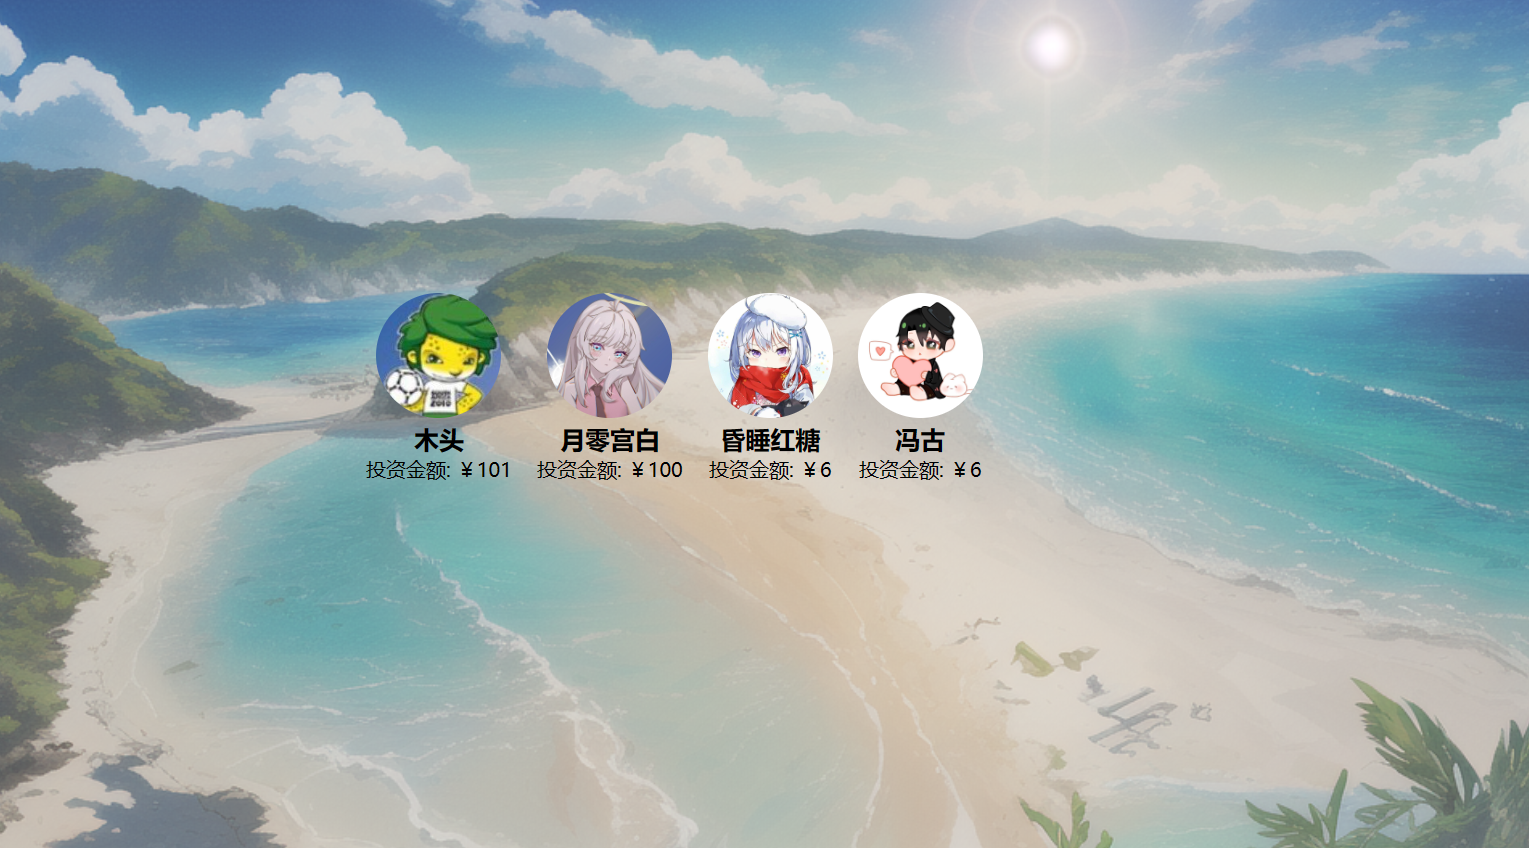
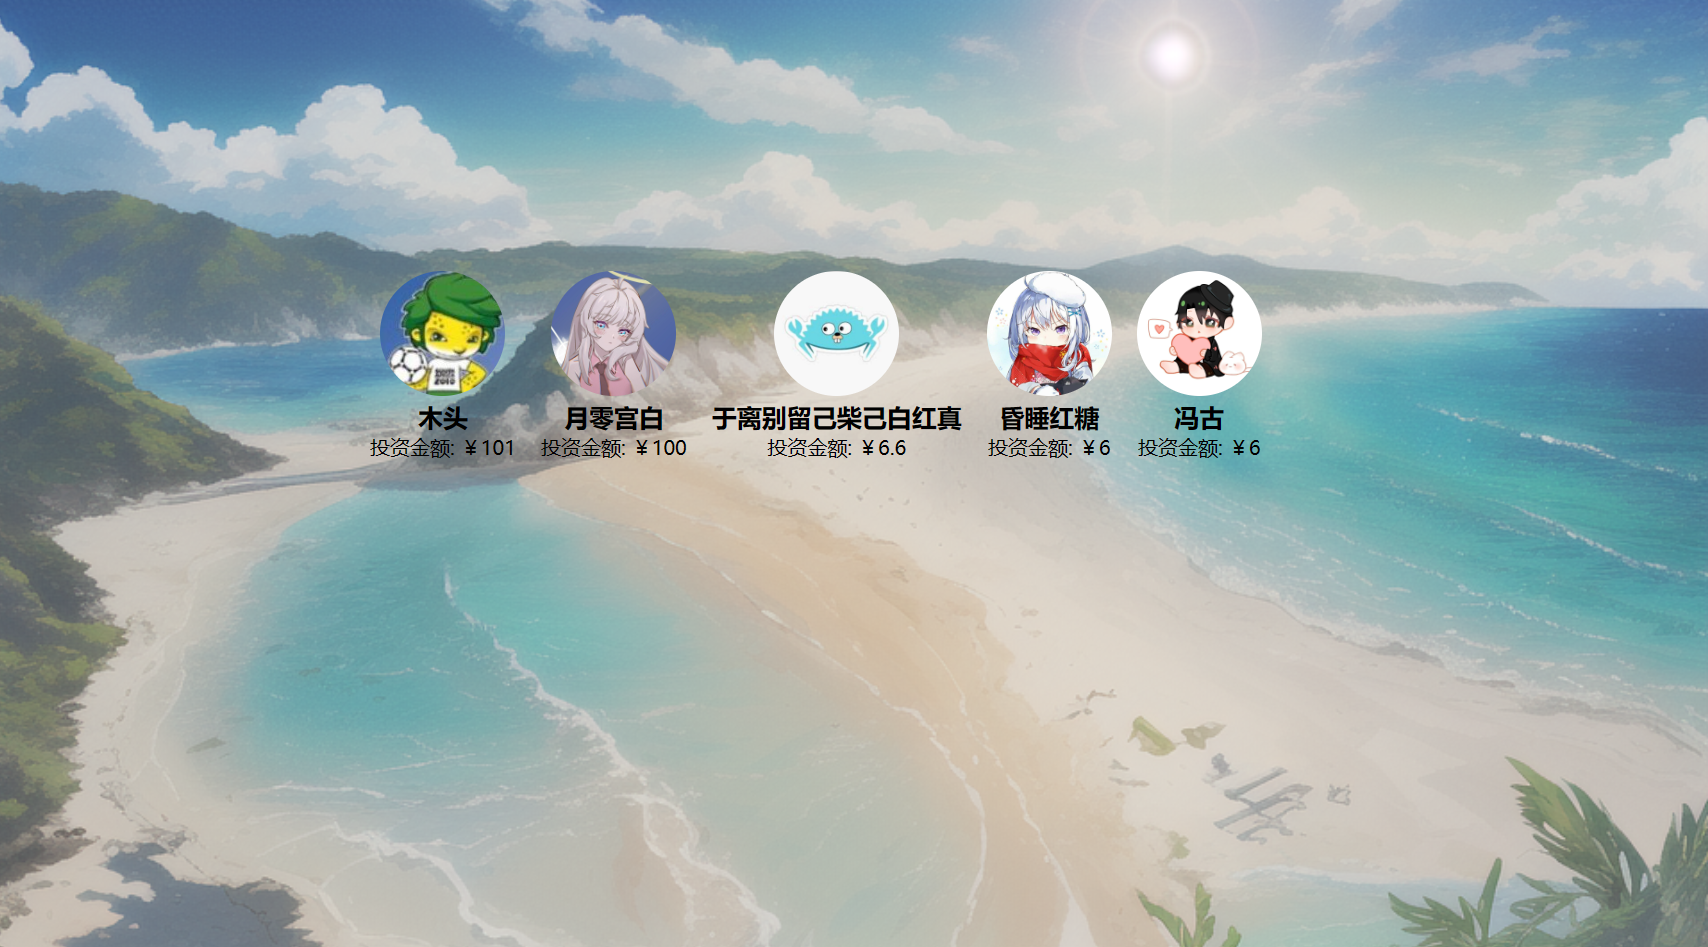
更新投资人信息

diff --git a/docs/投资人/index.html b/docs/投资人/index.html
@@ -59,6 +59,11 @@
         amount: "￥100"
       },
       {
+        name: "于离别留己柴己白红真",
+        avatar: "https://images.cnblogs.com/cnblogs_com/ikaros-521/2328032/o_230719114214_QQ%E5%9B%BE%E7%89%8720230719192535.jpg",
+        amount: "￥6.6"
+      },
+      {
         name: "昏睡红糖",
         avatar: "https://images.cnblogs.com/cnblogs_com/ikaros-521/2328032/o_230719074436_%E6%98%8F%E7%9D%A1%E7%BA%A2%E7%B3%96.jpg",
         amount: "￥6"
